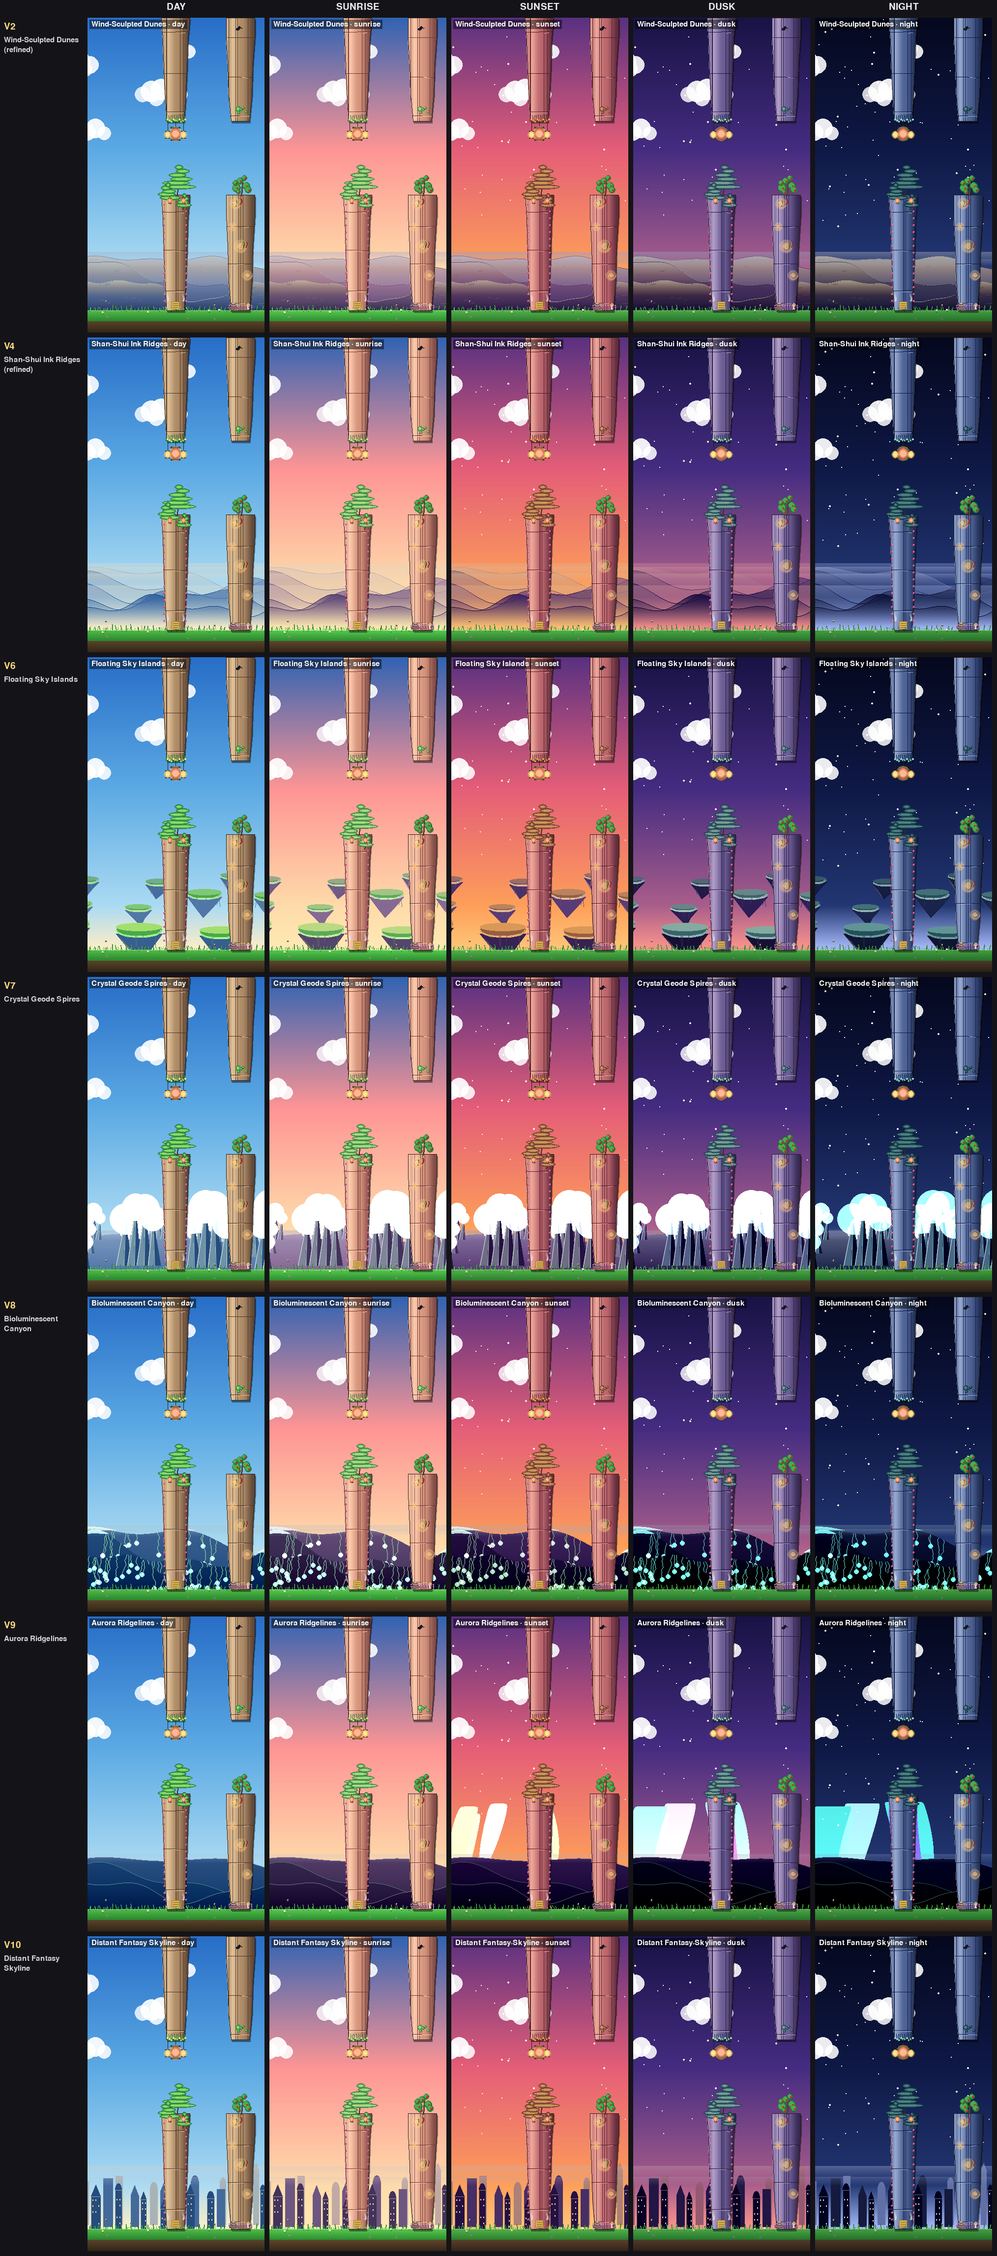
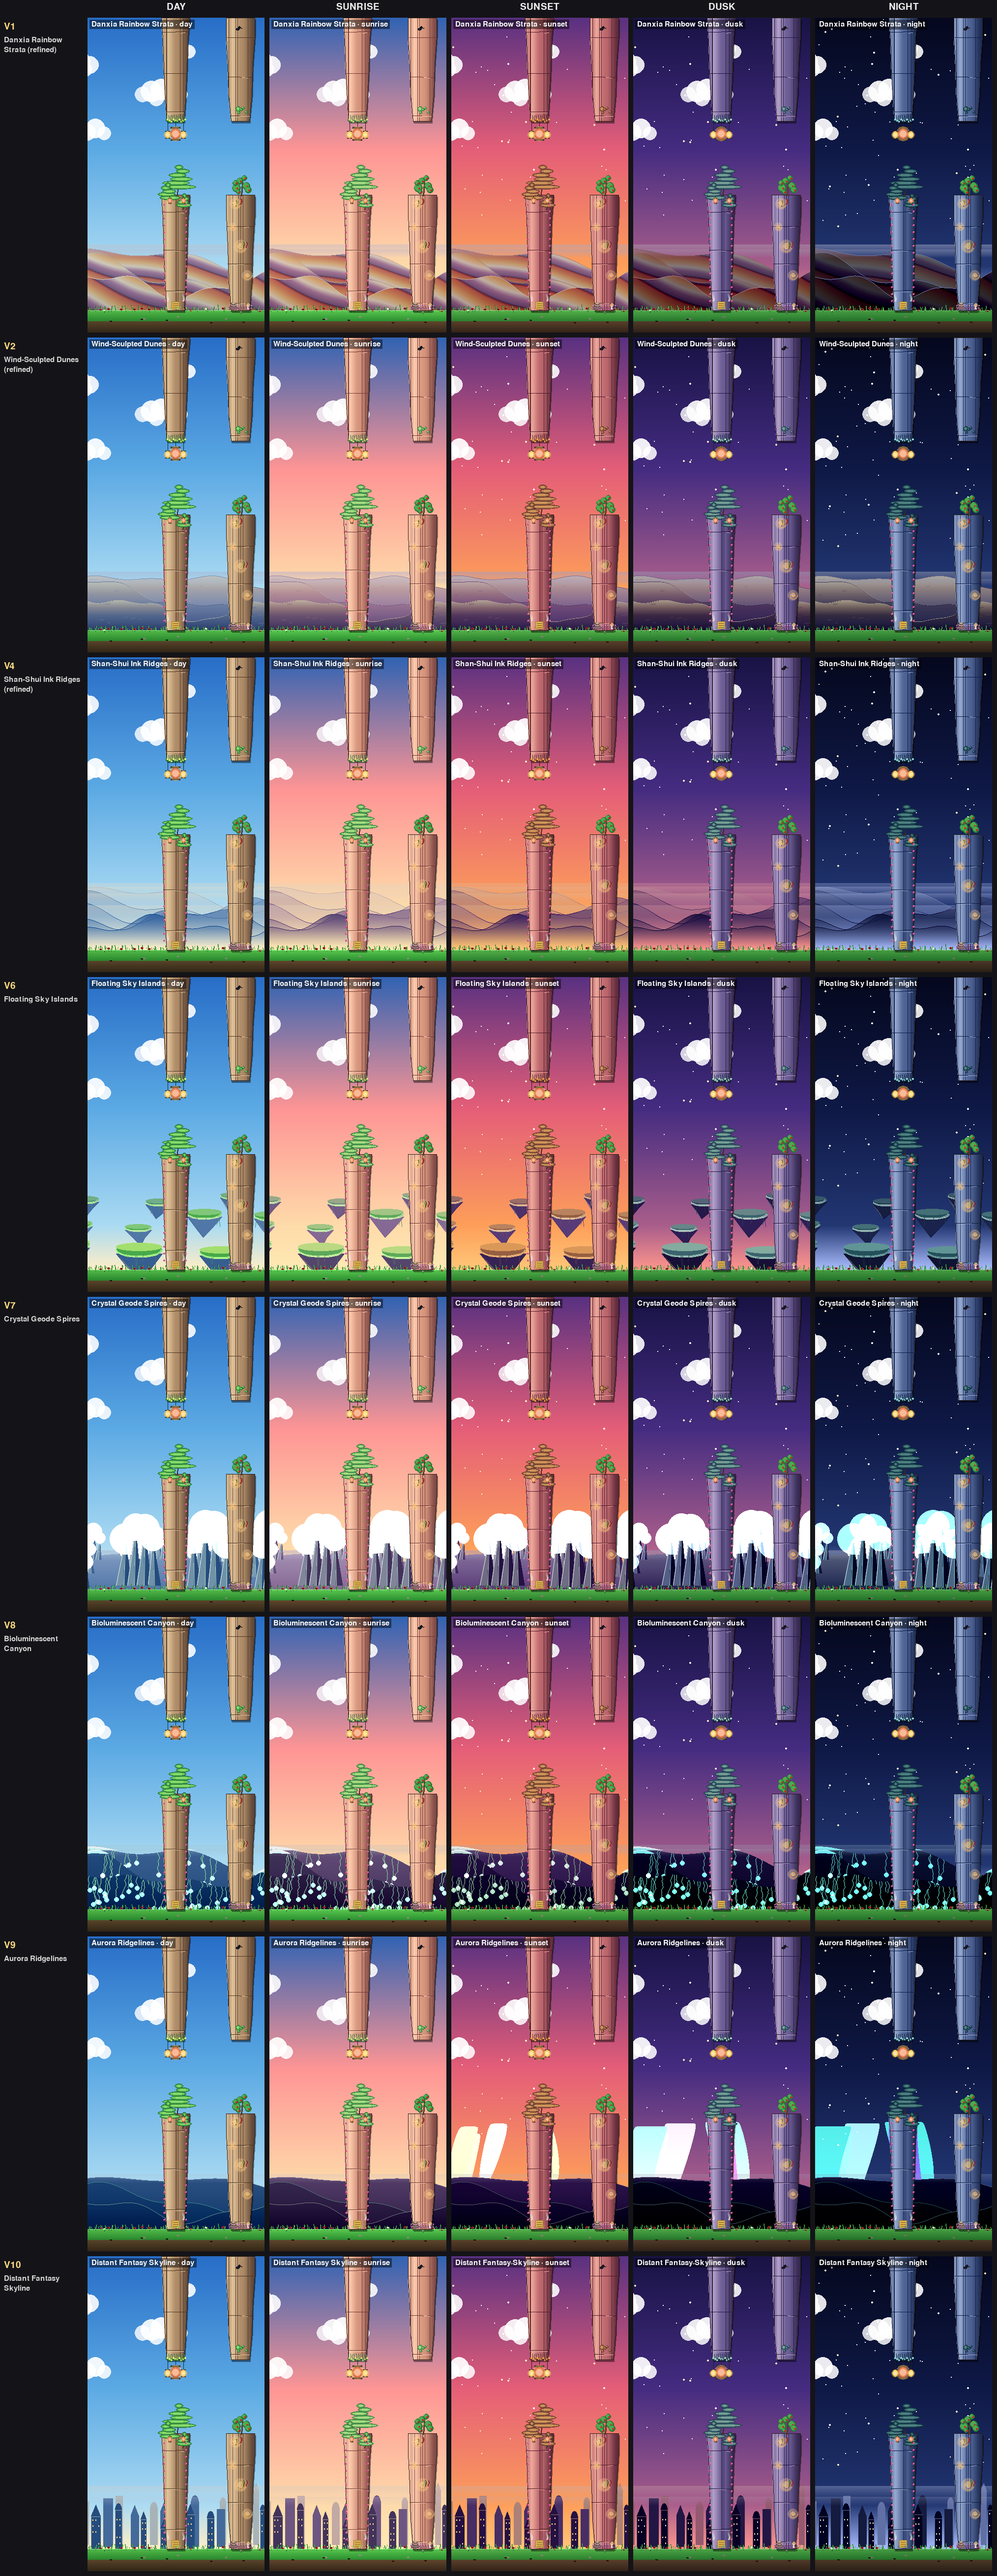
Add refined high-fidelity V1 Danxia Rainbow Strata as the lead row
Re-do the round-1 Danxia concept at the round-2 quality bar: per-pixel
sheared band axis through a smooth multi-stop mineral ramp (hematite →
iron orange → ochre → cream marl → magnetite violet), AA-feathered
bedding-plane seams, per-band vertical relief shading, and a horizon-keyed
AA sunlit rim. Hues derive from the biome near/horizon tones and dim by
star_alpha so the strata re-theme day→night like the other rows. The
comparison sheet now leads with V1 across all 5 times of day (8 rows).

https://claude.ai/code/session_01BPQi7gsBU3qzp6dzPAzGhF

diff --git a/archive/mountain_redesign/mountain_variants_r2.py b/archive/mountain_redesign/mountain_variants_r2.py
@@ -130,6 +130,137 @@ def _gradient_fill(surf, heights, ground_y, top_col, bot_col, ease=1.0):
 
 
 # ══════════════════════════════════════════════════════════════════════════
+# V1 — Danxia Rainbow Strata (REFINED, round-1 returning favourite)
+# Diagonal mineral strata — hematite red → iron orange → goethite ochre →
+# cream marl → magnetite violet — sheared across each ridge face. Round 1 drew
+# flat per-column line stacks; this rebuild samples a sheared band coordinate
+# per pixel through a smooth multi-stop mineral ramp, so every band carries its
+# own crest→base gradient, boundaries are AA-feathered rather than hard-stepped,
+# and a horizon-keyed sunlit rim catches the upper edge. Mineral hues are pulled
+# toward the biome near/horizon tones and darkened by ``star_alpha`` so the
+# rainbow stays vivid by day and reads as moonlit strata at night.
+# ══════════════════════════════════════════════════════════════════════════
+
+def _danxia_ramp(near, horizon, night):
+    """Smooth mineral ramp as ordered (stop, colour). ``stop`` is the fraction
+    along the sheared band axis where each mineral peaks; interpolating between
+    them gives soft band-to-band transitions instead of flat slabs. Every hue is
+    pulled toward the biome ``near`` tone, lifted slightly toward ``horizon`` on
+    the warm minerals, and darkened by ``night`` (0..1) so the set desaturates
+    and dims into dusk rather than sitting as a daytime rainbow on a dark sky."""
+    raw = [
+        (0.00, (188, 64, 58)),    # hematite red — top crest band
+        (0.20, (214, 116, 62)),   # iron orange
+        (0.40, (232, 178, 104)),  # goethite ochre
+        (0.58, (240, 224, 192)),  # cream marl — the bright relief band
+        (0.76, (176, 120, 150)),  # magnetite violet
+        (1.00, (120, 84, 116)),   # shadowed basal band
+    ]
+    pull = 0.22 + night * 0.42
+    out = []
+    for k, (stop, c) in enumerate(raw):
+        col = _mix(c, near, pull)
+        if stop < 0.55:  # warm minerals catch a little horizon glow
+            col = _mix(col, horizon, 0.12 * (1.0 - night * 0.5))
+        col = _shade(col, int(-46 * night))
+        out.append((stop, col))
+    return out
+
+
+def _ramp_at(ramp, t):
+    """Sample the ordered mineral ramp at axis position ``t`` (0..1)."""
+    t = max(0.0, min(1.0, t))
+    for i in range(1, len(ramp)):
+        s0, c0 = ramp[i - 1]
+        s1, c1 = ramp[i]
+        if t <= s1:
+            f = (t - s0) / max(1e-5, s1 - s0)
+            return _mix(c0, c1, f)
+    return ramp[-1][1]
+
+
+def _danxia_layer(surf, heights, ground_y, ramp, slant, band_scale, seed,
+                  rim_col):
+    """Fill under a ridge with sheared mineral strata. For each pixel the band
+    axis is ``(y - x*slant)`` so equal-value contours run as parallel diagonals
+    — the wind-folded Danxia signature. The axis is wrapped through the ramp,
+    and a thin darkened seam at each band boundary plus an AA crest sell crisp,
+    high-relief stratification rather than a smooth wash."""
+    w = surf.get_width()
+    top = min(y for _, y in heights)
+    depth = ground_y - top
+    if depth <= 0:
+        return
+    xy = {x: y for x, y in heights}
+    body = pygame.Surface((w, depth), pygame.SRCALPHA)
+    period = band_scale  # px between repeats of the full mineral sequence
+    wobble = band_scale * 0.16
+    for x in range(w):
+        ry = xy.get(x)
+        if ry is None:  # step>1 ridges: nearest sampled column
+            ry = xy.get(min(xy, key=lambda k: abs(k - x)))
+        # Per-column phase wobble bends the strata so seams aren't ruler-straight.
+        ph = math.sin(x * 0.02 + seed) * wobble
+        for y in range(ry, ground_y):
+            axis = ((y - x * slant + ph) % period) / period
+            col = _ramp_at(ramp, axis)
+            # Thin dark seam at the wrap boundary reads as a bedding plane.
+            edge = min(axis, 1.0 - axis)
+            if edge < 0.04:
+                col = _shade(col, -22)
+            # Gentle vertical relief: lift the band a touch near the crest so the
+            # face catches light, deepen toward the base.
+            vt = (y - top) / depth
+            col = _shade(col, int(10 - 26 * vt))
+            body.set_at((x, y - top), col)
+    poly = [(0, depth)] + [(x, y - top) for x, y in heights] + [(w, depth)]
+    mask = pygame.Surface((w, depth), pygame.SRCALPHA)
+    pygame.draw.polygon(mask, (255, 255, 255, 255), poly)
+    body.blit(mask, (0, 0), special_flags=pygame.BLEND_RGBA_MULT)
+    surf.blit(body, (0, top))
+    # Sunlit ridge rim — horizon-keyed, AA'd, sits exactly on the silhouette.
+    _aa_crest(surf, heights, rim_col)
+
+
+def draw_mountains_v1(surf, scroll, ground_y, w, far_color=None, near_color=None):
+    pal = _biome.palette_for_phase(_PHASE)
+    far = far_color or pal['mtn_far']
+    near = near_color or pal['mtn_near']
+    horizon = pal['horizon']
+    night = min(1.0, pal['star_alpha'] / 235.0)
+    back = _back_color(far)
+    haze = _haze(far, near)
+
+    # BACK — distant, hazier strata; tighter bands so it reads as the same
+    # geology receding, and a softer rim so it doesn't compete with the front.
+    pts, hb = _ridge(w, ground_y, scroll, 0.06, 100,
+                     [(0.010, 24, 0.8), (0.026, 11, 2.1)])
+    ramp_b = _danxia_ramp(_mix(near, back, 0.55), horizon, min(1.0, night + 0.1))
+    rim_b = _mix(far, horizon, 0.5)
+    _danxia_layer(surf, hb, ground_y, ramp_b, slant=0.22, band_scale=46,
+                  seed=11, rim_col=rim_b)
+    _haze_band(surf, hb, ground_y, _mix(haze, horizon, 0.2), 150, 26)
+
+    # FAR — full rainbow, mid band scale.
+    pts, hf = _ridge(w, ground_y, scroll, 0.15, 76,
+                     [(0.013, 30, 1.4), (0.033, 14, 0.3)])
+    ramp_f = _danxia_ramp(_mix(near, far, 0.4), horizon, night)
+    rim_f = _mix(near, horizon, 0.55)
+    _danxia_layer(surf, hf, ground_y, ramp_f, slant=0.30, band_scale=56,
+                  seed=29, rim_col=rim_f)
+    _haze_band(surf, hf, ground_y, _mix(haze, horizon, 0.12), 90, 18)
+
+    # NEAR — strongest saturation + brightest sunlit rim; widest bands so the
+    # closest strata read large and bold.
+    pts, hn = _ridge(w, ground_y, scroll, 0.28, 52,
+                     [(0.018, 22, 0.5), (0.045, 10, 1.9)])
+    ramp_n = _danxia_ramp(_sat(near, 1.05), horizon, night)
+    rim_n = _mix(_mix(near, horizon, 0.6), (255, 245, 220), 0.4 * (1.0 - night))
+    _danxia_layer(surf, hn, ground_y, ramp_n, slant=0.38, band_scale=66,
+                  seed=53, rim_col=rim_n)
+
+
+# ══════════════════════════════════════════════════════════════════════════
 # V2 — Wind-Sculpted Dunes (REFINED)
 # Richer multi-tone sand: each dune face runs a crest→trough gradient through
 # rose / gold / amber / mauve stops keyed off the biome tone, with a smooth
@@ -713,6 +844,7 @@ def set_phase(p: float) -> None:
 # ── dispatcher ───────────────────────────────────────────────────────────────
 
 VARIANTS = {
+    1: draw_mountains_v1,
     2: draw_mountains_v2,
     4: draw_mountains_v4,
     6: draw_mountains_islands,
@@ -723,6 +855,7 @@ VARIANTS = {
 }
 
 VARIANT_NAMES = {
+    1: "Danxia Rainbow Strata (refined)",
     2: "Wind-Sculpted Dunes (refined)",
     4: "Shan-Shui Ink Ridges (refined)",
     6: "Floating Sky Islands",
@@ -732,4 +865,5 @@ VARIANT_NAMES = {
     10: "Distant Fantasy Skyline",
 }
 
-ROW_ORDER = [2, 4, 6, 7, 8, 9, 10]
+# V1 leads as the returning round-1 favourite, brought up to round-2 fidelity.
+ROW_ORDER = [1, 2, 4, 6, 7, 8, 9, 10]
